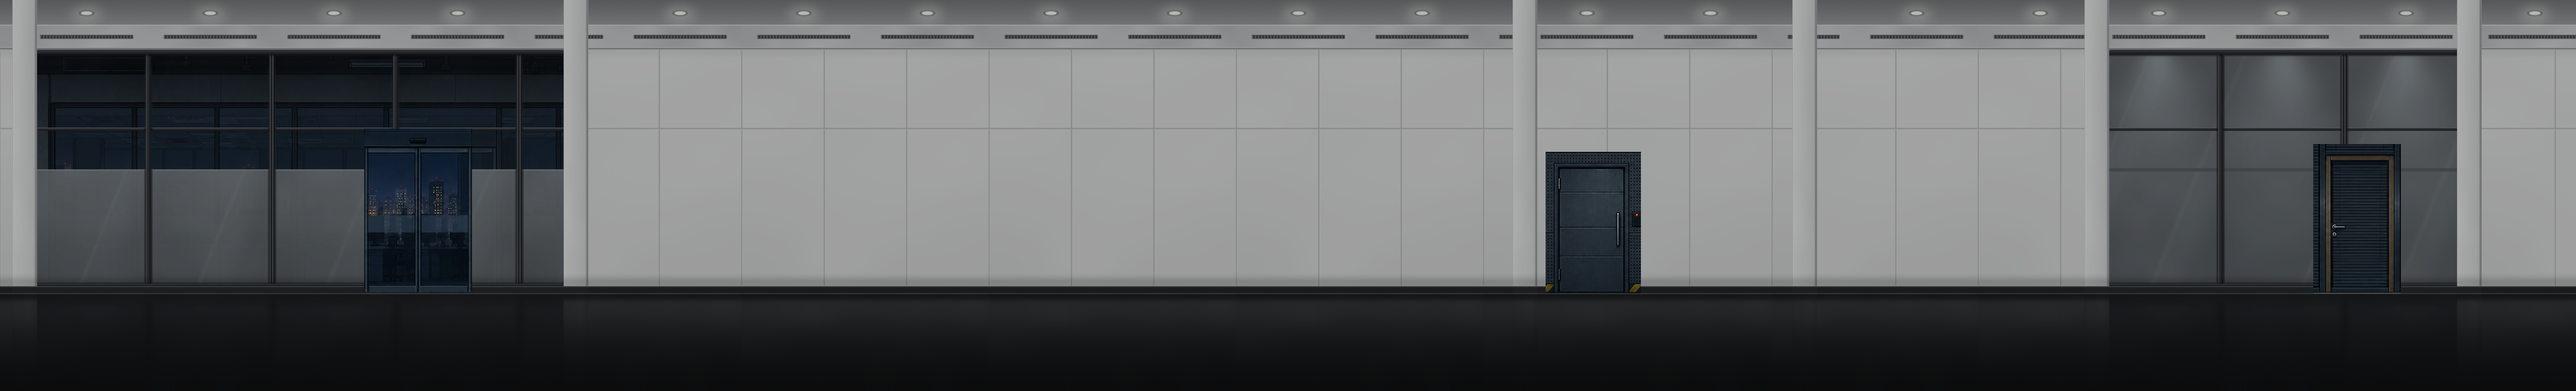
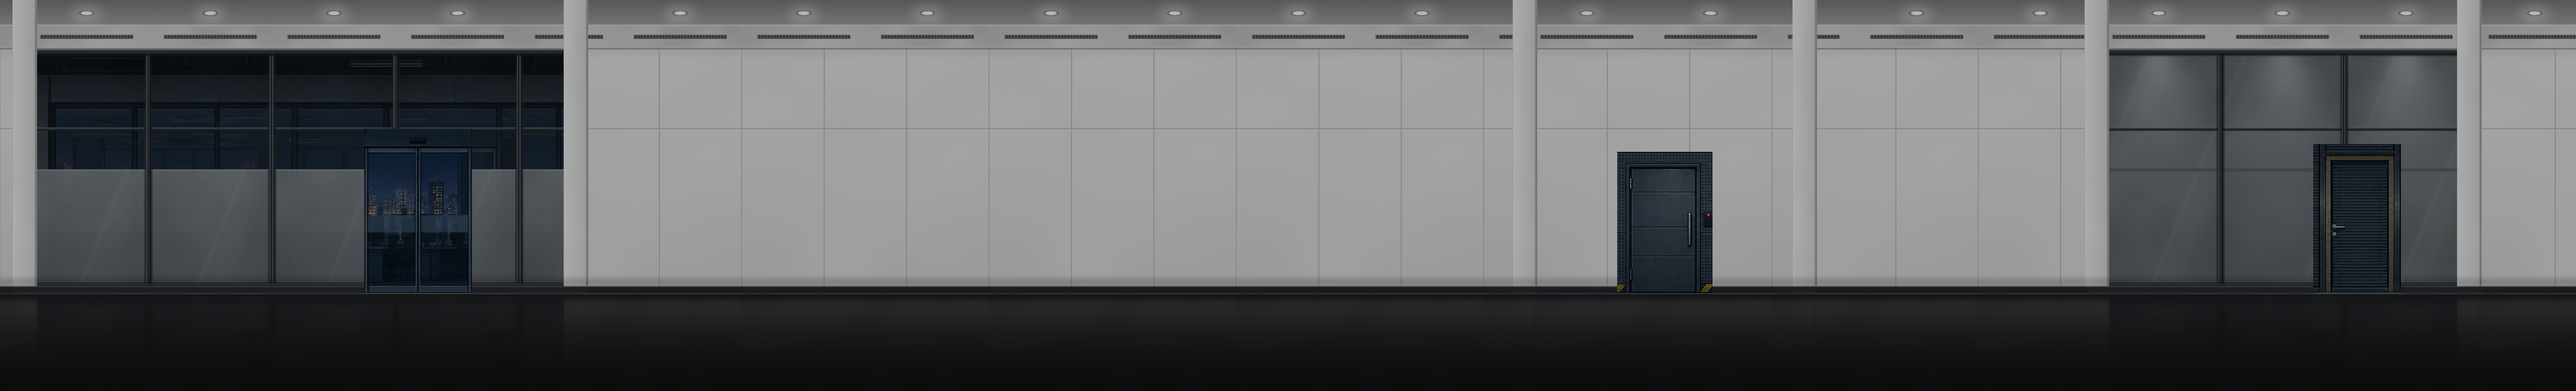
플래시·지도 버튼과 M 키, 모델 평가실 문 위치, 박스 밀기·크기, 컷씬 정리·낙하, 목표 문구 수정

Changed region(s): [[0.5928, 0.3632, 0.6864, 0.7566]]

diff --git a/css/game.css b/css/game.css
@@ -887,6 +887,9 @@ body { margin: 0; overflow: hidden; background: #27292b; color: #eee; font: 14px
 #player img { display: none; width: 100%; height: 100%; }
 #player #idle-sprite { width: 357.39px; height: 357.39px; transform: translate(3.375px, 1.585px); clip-path: inset(0 50% 50% 0); }
 #player #walk-sheet, #player #phone-walk-sheet { width: 600%; height: 100%; }
+/* 상자 밀기(push-box.png, 256px 칸 6장). 발 기준선이 걷기 그림보다 5px 낮아 같은 바닥에 서도록 올린다. */
+#player #push-sheet { position: relative; top: -5px; width: 600%; height: 100%; }
+#player[data-state="push"] #push-sheet { display: block; }
 #player #run-sheet, #player #phone-run-sheet { width: 800%; height: 100%; }
 #player .action-sheet { width: 200%; height: 100%; }
 #player #antianxiety-sheet { width: 600%; height: 100%; }
@@ -910,9 +913,9 @@ body { margin: 0; overflow: hidden; background: #27292b; color: #eee; font: 14px
 header { position: fixed; inset: max(24px, env(safe-area-inset-top)) max(24px, env(safe-area-inset-right)) auto max(24px, env(safe-area-inset-left)); display: flex; justify-content: space-between; gap: 16px; pointer-events: none; }
 header span { color: #b8c6c0; font-size: 13px; }
 /* 현재 위치(층·방)는 오른쪽 위, 지도 버튼 왼쪽에 띄운다. 지도 버튼의 아이콘은 투명 배경의 검은 그림이라 색을 뒤집는다(마스크는 file://에서 막힌다). */
-body > header > span { font-size: 19.5px; position: fixed; right: calc(max(24px, env(safe-area-inset-right)) + 56px); top: max(24px, env(safe-area-inset-top)); line-height: 44px; text-shadow: 0 1px 3px #000; }
-#map-button { position: fixed; z-index: 10; right: max(24px, env(safe-area-inset-right)); top: max(24px, env(safe-area-inset-top)); width: 44px; height: 44px; padding: 0; border: 1px solid #778778; border-radius: 50%; background: #182327; cursor: pointer; pointer-events: auto; }
-#map-button::before { content: ""; display: block; width: 24px; height: 24px; margin: auto; background: url("../assets/ui/map-icon.png") center / contain no-repeat; filter: invert(.87); }
+body > header > span { font-size: 25px; position: fixed; right: calc(max(24px, env(safe-area-inset-right)) + 70px); top: max(24px, env(safe-area-inset-top)); line-height: 57px; text-shadow: 0 1px 3px #000; }
+#map-button { position: fixed; z-index: 10; right: max(24px, env(safe-area-inset-right)); top: max(24px, env(safe-area-inset-top)); width: 57px; height: 57px; padding: 0; border: 1px solid #778778; border-radius: 50%; background: #182327; cursor: pointer; pointer-events: auto; }
+#map-button::before { content: ""; display: block; width: 31px; height: 31px; margin: auto; background: url("../assets/ui/map-icon.png") center / contain no-repeat; filter: invert(.87); }
 /* 17층 조명 스위치(왼쪽 위 "조명 켜짐/꺼짐 · 전력 없음")는 화면에서 숨긴다. */
 #floor17-light-switch { display: none; }
 #floor17-lights { width: 18px; height: 18px; margin: 0; accent-color: #b9d0a6; cursor: pointer; }
@@ -923,7 +926,11 @@ nav { position: fixed; inset: auto max(24px, env(safe-area-inset-right)) max(24p
 /* 휴대폰 버튼: 가방 버튼(가운데 아래) 오른쪽의 원형 단추. 아이콘은 투명 배경의 검은 그림이라 색을 뒤집는다(마스크는 file://에서 막힌다). 화면 흔들림·흐림(#stage 안)에 영향받지 않게 #stage 밖에 있다. */
 nav #phone-button { position: fixed; left: calc(50% + 51px); bottom: max(24px, env(safe-area-inset-bottom)); width: 78px; height: 78px; border-radius: 50%; background: #182327; border-color: #778778; }
 nav #phone-button::before { content: ""; display: block; width: 45px; height: 57px; margin: auto; background: url("../assets/ui/phone-icon.png") center / contain no-repeat; filter: invert(.87); }
-nav #phone-button[data-flashlight="on"]::before { filter: invert(.87) sepia(1) saturate(4) hue-rotate(5deg); }
+/* 플래시 버튼: 가방 버튼 왼쪽. 플래시를 켜면 휴대폰 버튼이 아니라 이 버튼이 노랗게 빛난다. */
+nav #flash-button { position: fixed; left: calc(50% - 129px); bottom: max(24px, env(safe-area-inset-bottom)); width: 78px; height: 78px; border-radius: 50%; background: #182327; border-color: #778778; }
+nav #flash-button::before { content: ""; display: block; width: 44px; height: 44px; margin: auto; background: url("../assets/ui/flash-icon.png") center / contain no-repeat; filter: invert(.87); }
+nav #flash-button[data-flashlight="on"] { border-color: #ffe99b; background: #2b2a1b; box-shadow: 0 0 16px 4px #ffe99b99, inset 0 0 12px #ffe99b55; }
+nav #flash-button[data-flashlight="on"]::before { filter: invert(.87) sepia(1) saturate(4) hue-rotate(5deg) drop-shadow(0 0 4px #ffe99b); }
 nav button { width: 56px; height: 52px; flex-shrink: 0; padding: 0; border: 1px solid #6b6d70; border-radius: 4px; background: #252629; color: #e5e7e9; font: 24px Arial, sans-serif; cursor: pointer; touch-action: none; user-select: none; -webkit-user-select: none; }
 #interact { margin-left: auto; font-size: 18px; }
 nav button:hover { border-color: #b9c6cf; }

diff --git a/js/player/player.js b/js/player/player.js
@@ -41,6 +41,11 @@ let facing = 1;
 let grounded = false;
 let jumpQueued = false;
 let interactionTime = 0;
+let playerPushing = false; // 이번 걸음에 상자를 밀고 있는가(pushables.js의 pushPushables가 정한다)
+let pushTime = 0;
+const pushSheet = document.getElementById('push-sheet');
+const pushFrames = 6;
+const pushFrameMs = 130; // assets/player/jeong-suho-push-box.json
 
 function checkWalkSheet() {
   walkReady = walkSheet.naturalWidth === 256 * walkFrames && walkSheet.naturalHeight === 256;
@@ -96,21 +101,23 @@ function animate(distance, sprinting = false, elapsed = 0) {
     idleTime = 0;
     refreshPhone();
   }
-  const running = grounded && sprinting && distance > .1 && runSheet.naturalWidth === 256 * runFrames && runSheet.naturalHeight === 256;
-  const walking = grounded && walkReady && distance > .1 && !running;
+  const pushing = grounded && playerPushing && distance > .1 && pushSheet.naturalWidth === 256 * pushFrames; // 상자를 미는 동안은 밀기 모션
+  const running = grounded && sprinting && !pushing && distance > .1 && runSheet.naturalWidth === 256 * runFrames && runSheet.naturalHeight === 256;
+  const walking = grounded && walkReady && distance > .1 && !running && !pushing;
   const holdingPhone = usingPhone || phoneLightOn;
   walkDistance = walking ? (walkDistance + distance) % (frameDistance * walkFrames) : 0;
   runDistance = running ? (runDistance + distance) % (runFrameDistance * runFrames) : 0;
   if (distance > .1 || !grounded) phoneAwayTime = 0;
   else phoneAwayTime = Math.max(0, phoneAwayTime - elapsed);
   const state = usingPhone ? (phoneLightOn ? 'phone-light' : 'phone') : !grounded ? (body.velocity.y < 0 ? 'jump' : 'fall') :
-    interactionTime > 0 && !holdingPhone ? 'interact' : running ? 'run' : walking ? 'walk' :
+    interactionTime > 0 && !holdingPhone ? 'interact' : pushing ? 'push' : running ? 'run' : walking ? 'walk' :
     phoneLightOn ? 'phone-light' : phoneAwayTime > 0 ? 'phone-away' : 'idle';
+  pushTime = state === 'push' ? pushTime + elapsed : 0;
   phoneTime = state === sprite.dataset.state && (state === 'phone' || state === 'phone-light') ? phoneTime + elapsed : 0;
   idleTime = state === 'idle' && sprite.dataset.state === 'idle' ? (idleTime + elapsed) % 3200 : 0;
   const index = state === 'phone' ? (phoneTime < 360 ? Math.floor(phoneTime / 180) : 2 + Math.floor((phoneTime - 360) / 600) % 2) :
     state === 'phone-light' ? Math.floor(phoneTime / 240) % 4 : state === 'phone-away' ? Number(phoneAwayTime <= 180) :
-    state === 'fall' ? 1 : state === 'interact' ? Number(interactionTime <= 240) :
+    state === 'fall' ? 1 : state === 'interact' ? Number(interactionTime <= 240) : state === 'push' ? Math.floor(pushTime / pushFrameMs) % pushFrames :
     running ? Math.floor(runDistance / runFrameDistance) : walking ? Math.floor(walkDistance / frameDistance) :
     state === 'idle' ? (idleTime < 1200 ? 0 : idleTime < 2100 ? 1 : idleTime < 2220 ? 2 : 3) : 0;
   sprite.dataset.state = state;
@@ -122,6 +129,7 @@ function animate(distance, sprinting = false, elapsed = 0) {
     if (sheet.getAttribute('src') !== src) sheet.setAttribute('src', src);
   }
   if (state === 'idle') showIdleFrame(index);
+  if (state === 'push') pushSheet.style.transform = `translateX(${-index * 100 / pushFrames}%)`;
   if (state === 'walk') (holdingPhone ? phoneWalkSheet : walkSheet).style.transform = `translateX(${-index * 100 / walkFrames}%)`;
   if (state === 'run') (holdingPhone ? phoneRunSheet : runSheet).style.transform = `translateX(${-index * 100 / runFrames}%)`;
   // Reuse the airborne run poses so a lit phone never disappears during a jump.

diff --git a/js/scene/story-scene.js b/js/scene/story-scene.js
@@ -16,14 +16,14 @@ const STORY_SCENES = [
       '우리 사내 편의점에서 항불안제를 팔았던가?',
       '편의점으로 가보자.'],
   },
-  { // 항불안제를 사용하고(정신 불안 목표 완료) 4초 뒤.
-    flag: 'story-robot-seen', delay: 4000, ready: () => collectedItems.has('story-anxiety-seen') && collectedItems.has('f16-antianxiety-used'),
+  { // 항불안제를 사용하고(정신 불안 목표 완료) 2초 뒤.
+    flag: 'story-robot-seen', delay: 2000, ready: () => collectedItems.has('story-anxiety-seen') && collectedItems.has('f16-antianxiety-used'),
     lines: ['휴.. 겨우 정신을 차렸네..',
       '그래서 경비 로봇이 왜 날 공격했던거지?',
       '그 로봇은 ARCHI 개발 팀에서 만든 로봇이였나?',
       'ARCHI 개발 팀을 조사해보자.'],
   },
-  { // 로봇의 습격! 그 이유는? 목표 도중 12~15층 게이트에 출입증을 태우고, 그 조사창을 닫은 직후.
+  { // 이상 행동 목표 도중 12~15층 게이트에 출입증을 태우고, 그 조사창을 닫은 직후.
     flag: 'story-badge-seen', delay: 300, ready: () => collectedItems.has('story-gate-tagged'),
     lines: ['아 맞다 나 일용직이였지',
       '일용직한테 야근시키는 이 @#$% 회사... 떄려치던가 해야지..',
@@ -53,6 +53,7 @@ function showStoryLine(index) {
 
 function startStoryScene({ lines, flag }) {
   storySceneActive = true;
+  clearEventsForCutscene();
   usingInspection = true; // 이동·상호작용·메뉴·정신력 진행을 막는 기존 규칙을 그대로 쓴다
   storyLines = lines;
   storyFlag = flag;
@@ -60,7 +61,7 @@ function startStoryScene({ lines, flag }) {
   storyBlocked = [...document.body.children].filter(el => el !== storyScene && el.tagName !== 'SCRIPT' && !el.inert);
   for (const el of storyBlocked) el.inert = true;
   releaseInput();
-  Body.setVelocity(body, { x: 0, y: 0 });
+  Body.setVelocity(body, { x: 0, y: body.velocity.y }); // 공중이면 속도를 이어 받아 떨어진다(loop.js의 fallDuringStoryScene)
   hint.hidden = interactionOutline.hidden = true;
   document.getElementById('story-skip').focus({ preventScroll: true });
   showStoryLine(0);

diff --git a/js/floors/floor-16.js b/js/floors/floor-16.js
@@ -77,16 +77,16 @@ const FLOOR16_ROOMS = interiorRooms(16, [
       // 올라가 있으면 밀어 내린다. 출구는 셔터가 올라가 있을 때만 열린다.
       shutterLever: 'f16-cu' },
   ],
-  // 밀 수 있는 진라면 박스(js/scene/pushables.js): 플레이어 허리 높이(90px)이고, 옆에서 막힌 채 걸으면 플레이어 이동 속도의 절반으로
+  // 밀 수 있는 진라면 박스(js/scene/pushables.js): 플레이어 가슴 높이(117px, 처음의 1.3배)이고, 옆에서 막힌 채 걸으면 플레이어 이동 속도의 절반으로
   // 밀린다. 왼쪽은 처음 자리(중심 415)보다 더 밀리지 않고, 오른쪽은 계산대 왼쪽 끝(1150 - 312 / 2 + 312 * .0156 ≈ 999)에 박스
-  // 오른쪽 끝(중심 + 71)이 맞닿는 자리(중심 928)에서 멈춘다. 박스 위에 서면(어디까지 밀었든) 선반 항불안제에 손이 닿는다.
-  movables: [{ kind: 'ramen-box', name: '진라면 박스', x: 344, width: 142, height: 90,
-    pushable: { factor: .5, minX: 415, maxX: 928 } }],
+  // 오른쪽 끝(중심 + 93)이 맞닿는 자리(중심 906)에서 멈춘다. 박스 위에 서면(어디까지 밀었든) 선반 항불안제에 손이 닿는다.
+  movables: [{ kind: 'ramen-box', name: '진라면 박스', x: 322, width: 186, height: 117,
+    pushable: { factor: .5, minX: 415, maxX: 906 } }],
   // 상단 선반 약품 칸의 항불안제(위치는 선반 그림 속 컵라면 칸 위). condition(박스 위에 서기)을 채우기 전에는
   // 손이 닿지 않아 챙길 수 없고, 챙기면(gives) 선반에서 사라지고 가방에 들어간다(INVENTORY_ITEMS).
   fixtures: [
     { name: '항불안제', style: 'pill-item', x: 880, y: 246, width: 48, height: 45,
-      standYs: [floorY, floorY - 90], condition: () => playerOnPushable('진라면 박스'),
+      standYs: [floorY, floorY - 117], condition: () => playerOnPushable('진라면 박스'),
       gives: 'f16-antianxiety', hideWhenTaken: true,
       surface: 'card', image: 'assets/objects/items/antianxiety.png',
       message: '박스 위에 올라서니 손이 닿는다. 선반 위의 항불안제 한 통을 꺼냈다. 챙겼다.',

diff --git a/index.html b/index.html
@@ -149,6 +149,7 @@
           <img id="idle-sprite" src="assets/player/jeong-suho-idle-four.png" alt="" width="1254" height="1254" draggable="false" />
           <img id="antianxiety-sheet" src="assets/player/jeong-suho-antianxiety.png" alt="" width="1536" height="256" draggable="false" />
           <img id="walk-sheet" src="assets/player/jeong-suho-walk-six.png" alt="" width="1536" height="256" draggable="false" />
+          <img id="push-sheet" src="assets/player/jeong-suho-push-box.png" alt="" width="1536" height="256" draggable="false" />
           <img id="run-sheet" src="assets/player/jeong-suho-run-eight.png" alt="" width="2048" height="256" draggable="false" />
           <img id="phone-walk-sheet" src="assets/player/jeong-suho-phone-walk-off.png" alt="" width="1536" height="256" draggable="false" />
           <img id="phone-run-sheet" src="assets/player/jeong-suho-phone-run-off.png" alt="" width="2048" height="256" draggable="false" />
@@ -164,6 +165,7 @@
       <header><span>17F · 사무실</span><label id="floor17-light-switch"><input id="floor17-lights" type="checkbox" checked aria-label="17층 조명" /><output id="floor17-light-state">조명 켜짐</output></label><button id="map-button" type="button" aria-label="지도" title="지도"></button></header>
       <nav aria-label="플레이어 조작">
         <button id="interact" type="button" aria-label="상호작용" title="상호작용 (E)">E</button>
+        <button id="flash-button" type="button" aria-label="플래시 켜기 (F)" title="플래시 (F)" aria-pressed="false"></button>
         <button id="phone-button" type="button" aria-label="휴대폰" title="휴대폰 (P)"><span id="phone-flash-state" aria-hidden="true">플래시 꺼짐</span></button>
       </nav>
     <section id="main-menu" role="dialog" aria-modal="true" aria-label="ARCHI 메인 메뉴" data-view="home">

diff --git a/js/ui/objective.js b/js/ui/objective.js
@@ -47,9 +47,9 @@ const OBJECTIVES = [
   { when: () => logDeleting(), title: '로그 삭제를 막아라', text: '누군가 기록을 지우고 있다! 연결을 끊어야 한다.' },
   { when: () => collectedItems.has('story-badge-seen') && !collectedItems.has('f16-badge') && collectedItems.has('goal-postit'), title: '출입증 쌔비기', text: '쪽지에 적힌 그 사람이라면 출입증을 갖고 있겠지.' },
   { when: () => collectedItems.has('story-badge-seen') && !collectedItems.has('f16-badge'), title: '출입증 쌔비기', text: '출입증이 필요하다. 가까운 곳에 빌릴 만한 사람이 없을까?' },
-  { when: () => collectedItems.has('story-robot-seen') && !collectedItems.has('f1-robot-log'), title: '로봇의 습격! 그 이유는?',
-    text: '경비 로봇은 왜 나를 노렸을까? 로봇 자신에게 남은 기록이 있을지도.' },
-  { when: () => collectedItems.has('story-robot-seen'), title: '로봇의 습격! 그 이유는?', text: 'ARCHI를 만든 사람들은 무언가 알고 있을 것이다.' },
+  { when: () => collectedItems.has('story-robot-seen') && !collectedItems.has('f1-robot-log'), title: '이상 행동',
+    text: '경비 로봇은 왜 나를 노렸을까? ARCHI 개발 팀을 조사해보자.' },
+  { when: () => collectedItems.has('story-robot-seen'), title: '이상 행동', text: '경비 로봇은 왜 나를 노렸을까? ARCHI 개발 팀을 조사해보자.' },
   { when: () => collectedItems.has('story-anxiety-seen') && !collectedItems.has('story-robot-seen'), title: '정신 불안', text: '머리가 어지럽다. 마음을 진정시킬 무언가가 필요하다. 편의점으로 가보자.' },
   { when: () => solarEnabled && !collectedItems.has('f17-emergency-linked') && !floorHasLighting(17),
     title: '17층 전등 켜기', text: '전력은 돌아왔지만 17층은 아직 어둡다.' },

diff --git a/js/floors/floor-12.js b/js/floors/floor-12.js
@@ -26,7 +26,7 @@ const FLOOR12_LAYOUT = {
       doorX: 708, doorWidth: 132, doorStyle: 'slide', doorOutline: [707, 250, 209, 318] },
     { name: '모델 평가실', x: 2960, width: 543, style: 'lab', target: 'f12-eval',
       // 카드키(f12-eval-keycard)를 가진 채 E를 누르면 카드를 직접 끌어 리더기에 대야 열린다(manual-control.js의 card).
-      doorX: 3020, doorWidth: 140, doorY: 314, doorStyle: 'security', locked: true, unlockedBy: 'f12-eval-door-opened',
+      doorX: 3159, doorWidth: 140, doorY: 314, doorStyle: 'security', locked: true, unlockedBy: 'f12-eval-door-opened',
       requires: 'f12-eval-keycard',
       control: { kind: 'card', label: '카드키를 마우스로 끌어 리더기에 올리자.', reader: '카드키', doneBy: 'f12-eval-door-opened' },
       message: '모델 평가실 문이 잠겨 있다. 전자 잠금장치에 전용 카드키가 필요하다. 개발실 서랍부터 찾아보자.' },
@@ -80,7 +80,8 @@ const FLOOR12_ROOMS = interiorRooms(12, [
       takenMessage: '서랍은 비어 있다. 팀장실 보조키는 이미 챙겼다.' },
     { file: 'water-cooler', size: [256, 512], worldWidth: 62, x: 3200 },
   ] },
-  { id: 'f12-eval', name: '모델 평가실', width: 1804, windowless: true, exitOutline: [335, 312, 174, 256],
+  // exitX: 복도 문을 간판 아래 가운데(3159)로 옮겼지만 방 안 출구는 처음 자리(270)에 둔다(안팎 비율 규칙의 예외).
+  { id: 'f12-eval', name: '모델 평가실', width: 1804, windowless: true, exitX: 270, exitOutline: [335, 312, 174, 256],
     exitArt: { x: 344, crop: [327, 210, 226, 360], fill: [1120, 210] },
     backgroundImage: { src: 'assets/background/floor12/eval-finished.png', height: 760, top: 0 }, props: [
     { file: 'server-rack', size: [256, 512], worldWidth: 96, x: 100 },

diff --git a/js/interaction/interaction.js b/js/interaction/interaction.js
@@ -156,9 +156,9 @@ function interact() {
       // 거부 화면은 미등록 출입증이라는 사실만 알려 준다(유효한 사원증의 단서는 휴대폰 건물 안내 앱이 따로 준다).
       playGameSound('deny');
       openInspection(nearbyDoor.name, '정수호의 출입증을 태그했다. "미등록 출입증입니다, 팀장 이상의 직급이 요구됩니다." 칸막이가 열리지 않았다.');
-      // 로봇의 습격! 그 이유는? 목표 도중이면 이 조사창을 닫은 뒤 세 번째 컷씬(story-scene.js)이 이어진다.
+      // 이상 행동 목표 도중이면 이 조사창을 닫은 뒤 세 번째 컷씬(story-scene.js)이 이어진다.
       // 1층 경비 로봇 정비 패널 기록(f1-robot-log, 필수)을 읽은 뒤에만 이어진다.
-      if (currentObjective?.title === '로봇의 습격! 그 이유는?' && collectedItems.has('f1-robot-log') && !collectedItems.has('story-badge-seen')) collectedItems.add('story-gate-tagged'); // 컷씬은 한 번만(이미 봤으면 다시 나오지 않는다)
+      if (currentObjective?.title === '이상 행동' && collectedItems.has('f1-robot-log') && !collectedItems.has('story-badge-seen')) collectedItems.add('story-gate-tagged'); // 컷씬은 한 번만(이미 봤으면 다시 나오지 않는다)
       return;
     }
     const missing = !unreadable && lacking && nearbyDoor.missingMessage &&

diff --git a/js/core/loop.js b/js/core/loop.js
@@ -3,6 +3,20 @@ let previousTime = null;
 let accumulator = 0;
 let soundStepDistance = 0;
 
+// 혼잣말 컷씬이 공중에서 시작되면, 수호가 바닥에 내려설 때까지 중력만 받아 떨어진다(좌우로는 움직이지 않는다).
+function fallDuringStoryScene() {
+  if (grounded) return;
+  Body.setVelocity(body, { x: 0, y: body.velocity.y });
+  Engine.update(engine, step);
+  grounded = engine.pairs.list.some(pair => {
+    if (!pair.isActive || (pair.bodyA !== body && pair.bodyB !== body)) return false;
+    const normalY = pair.collision.normal.y * (pair.bodyA === body ? 1 : -1);
+    return normalY < -.5;
+  });
+  animate(0, false, step);
+  cameraX += (cameraTarget() - cameraX) * .13;
+}
+
 function update() {
   updateGameAudio(step);
   if (mainMenuActive) return;
@@ -10,7 +24,7 @@ function update() {
   updateSanity(step);
   if (openingActive) { updateOpening(step); return; }
   if (blackoutSceneActive) { updateBlackoutScene(step); return; }
-  if (storySceneActive) return; // 대사는 클릭으로 넘긴다(story-scene.js)
+  if (storySceneActive) { fallDuringStoryScene(); return; } // 대사는 클릭으로 넘긴다(story-scene.js)
   if (cctvSceneActive) { updateCctvScene(step); return; }
   if (photoCaptureTime > 0) {
     updatePhotoCapture(step);

diff --git a/css/phone.css b/css/phone.css
@@ -69,8 +69,6 @@
 .phone-charger .docked-phone { position: absolute; left: 50%; top: var(--phone-top); width: 22px; height: 44px; transform: translateX(-50%); image-rendering: pixelated; }
 #phone-button { position: relative; }
 #phone-flash-state { position: absolute; right: 0; bottom: calc(100% + 6px); padding: 4px 6px; border: 1px solid #6b6d70; border-radius: 4px; background: #252629; color: #c9cdd1; font: 11px/1.4 Arial, sans-serif; white-space: nowrap; pointer-events: none; }
-#phone-button[data-flashlight="on"] { border-color: #ffe99b; color: #ffe99b; }
-#phone-button[data-flashlight="on"] #phone-flash-state { border-color: #ffe99b; background: #fff5cc; color: #30260b; }
 #phone-button[data-docked="true"] { color: #879292; }
 #phone-button[data-docked="true"]::after { content: attr(data-charge); position: fixed; right: max(24px, env(safe-area-inset-right)); bottom: 88px; max-width: calc(100vw - 48px); padding: 6px 9px; border: 1px solid #758a78; background: #101c20ed; color: #dbe5d8; font: 11px/1.5 Arial, sans-serif; pointer-events: none; }
 

diff --git a/js/scene/pushables.js b/js/scene/pushables.js
@@ -7,6 +7,7 @@ const PUSH_CONTACT_GAP = 2.5;
 // 겹침도 맞닿은 것으로 쳐야 달려와 부딪혀도 밀린다(예전엔 ±2.5px만 인정해 그대로 막혔다).
 const PUSH_MAX_OVERLAP = 12;
 
+
 function pushableOf(part) { return part.pushable ? part : null; }
 
 // 지금 플레이어가 direction(-1/1) 쪽으로 이 상자에 막혀 있는가.
@@ -21,11 +22,13 @@ function playerPressesPart(part, direction) {
 
 // 이번 걸음에서 플레이어가 가려던 거리(velocityX)를 받아 상자를 밀고, 플레이어가 실제로 갈 거리를 돌려준다.
 function pushPushables(direction, velocityX) {
+  playerPushing = false;
   for (const part of movingParts) {
     if (!pushableOf(part) || !playerPressesPart(part, direction)) continue;
     const { factor, minX, maxX } = part.pushable;
     const x = Math.max(minX, Math.min(maxX, part.body.position.x + velocityX * factor));
     Body.setPosition(part.body, { x, y: part.body.position.y });
+    playerPushing = true;
     return velocityX * factor;
   }
   return velocityX;

diff --git a/js/interaction/phone.js b/js/interaction/phone.js
@@ -112,7 +112,11 @@ function refreshPhone() {
   document.getElementById('phone-light-state').textContent = phoneLightOn ? '켜짐' : '꺼짐';
   document.getElementById('phone-help').textContent = percent === 0 ? '배터리 없음 · 카페나 사무실 콘센트에서 충전하세요.' : '';
   world.dataset.flashlight = phoneLightOn && itemUseTime <= 0 ? 'on' : 'off';
-  phoneButton.dataset.flashlight = phoneLightOn ? 'on' : 'off';
+  // 플래시가 켜지면 휴대폰 버튼이 아니라 플래시 버튼이 빛난다.
+  const flashButton = document.getElementById('flash-button');
+  flashButton.dataset.flashlight = phoneLightOn ? 'on' : 'off';
+  flashButton.setAttribute('aria-pressed', String(phoneLightOn));
+  flashButton.setAttribute('aria-label', phoneLightOn ? '플래시 끄기 (F)' : '플래시 켜기 (F)');
   const flashState = `플래시 ${phoneLightOn ? '켜짐' : '꺼짐'}`;
   document.getElementById('phone-flash-state').textContent = flashState;
   document.getElementById('phone-flash-state').hidden = Boolean(phoneDock);
